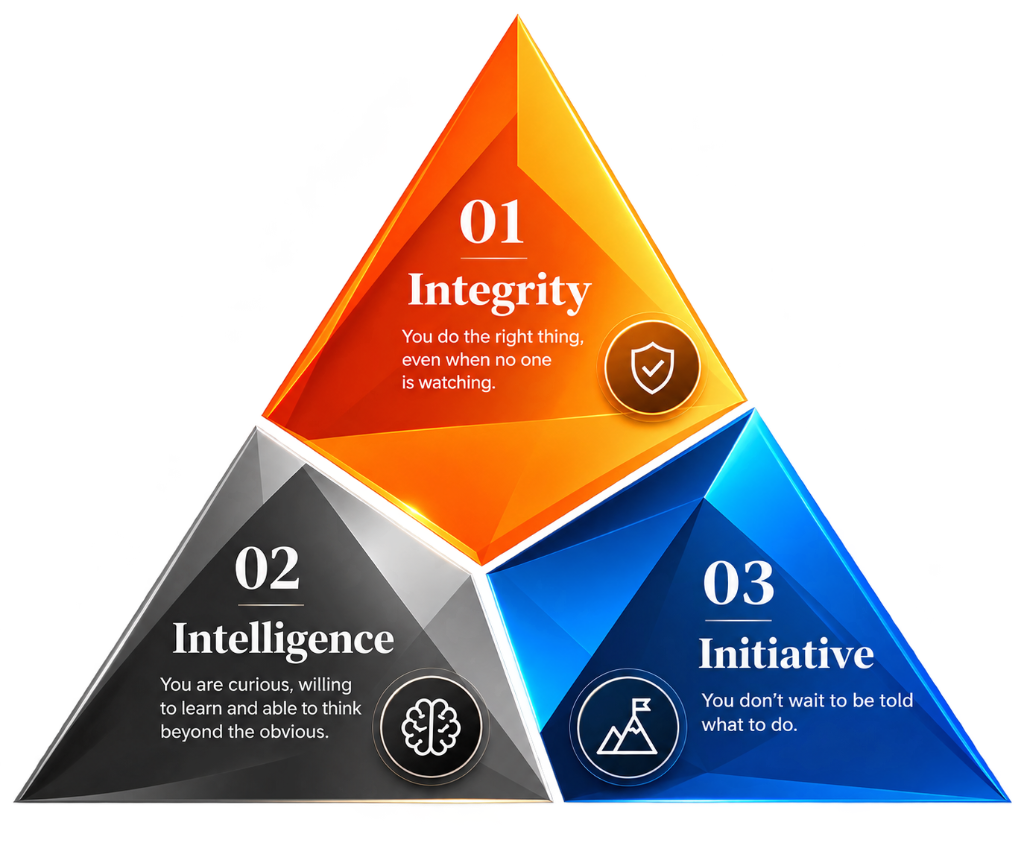
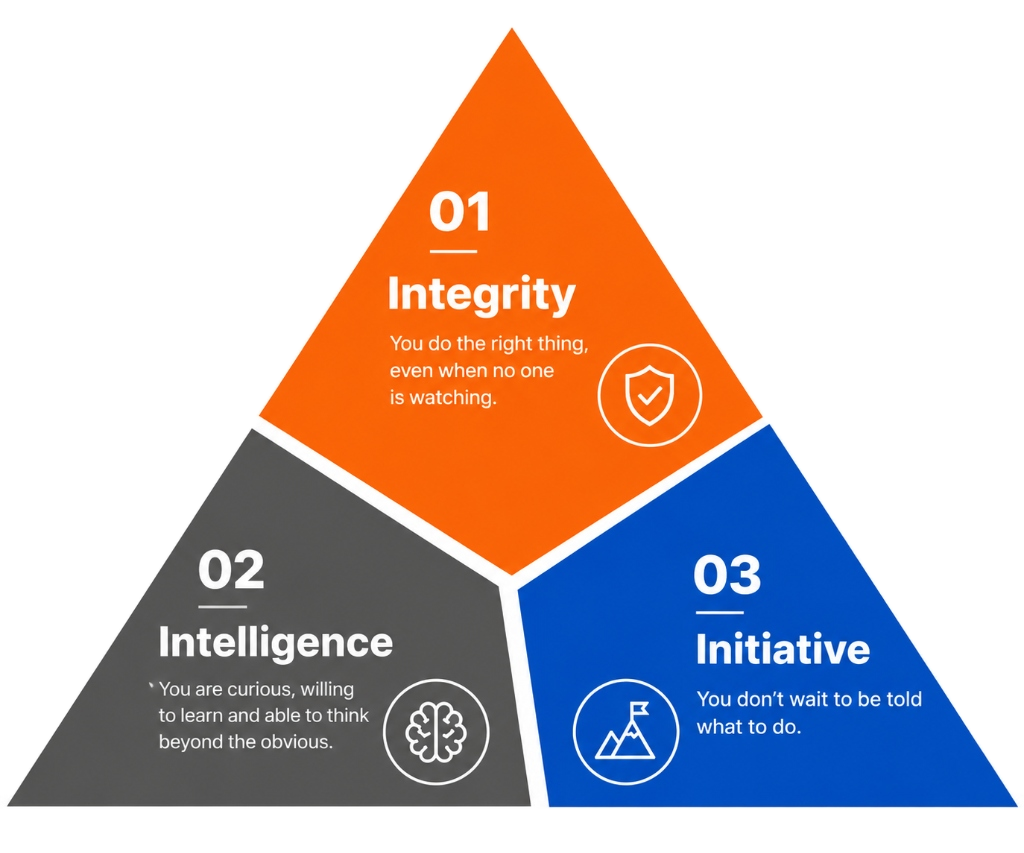
Update 3I philosophy diagram with user-provided 3-piece triangle design

diff --git a/src/components/ThreeIPhilosophySection.jsx b/src/components/ThreeIPhilosophySection.jsx
@@ -78,8 +78,8 @@ export default function ThreeIPhilosophySection() {
           <div className="lg:col-span-7 xl:col-span-7 flex justify-center items-center">
             <div className="relative w-full max-w-[580px] sm:max-w-[640px] lg:max-w-[720px] xl:max-w-[780px] transition-transform duration-500 hover:scale-[1.015]">
               <img
-                src="/images/philosophy/three-i-figure.png?v=exact"
-                srcSet="/images/philosophy/three-i-figure.png?v=exact 1x, /images/philosophy/three-i-figure-2x.png?v=exact 2x"
+                src="/images/philosophy/three-i-figure.png?v=new"
+                srcSet="/images/philosophy/three-i-figure.png?v=new 1x, /images/philosophy/three-i-figure-2x.png?v=new 2x"
                 alt="The 3 I Philosophy: 01 Integrity, 02 Intelligence, 03 Initiative - Alphasure"
                 className="w-full h-auto object-contain select-none filter drop-shadow-[0_20px_45px_rgba(0,0,0,0.08)]"
                 loading="eager"
